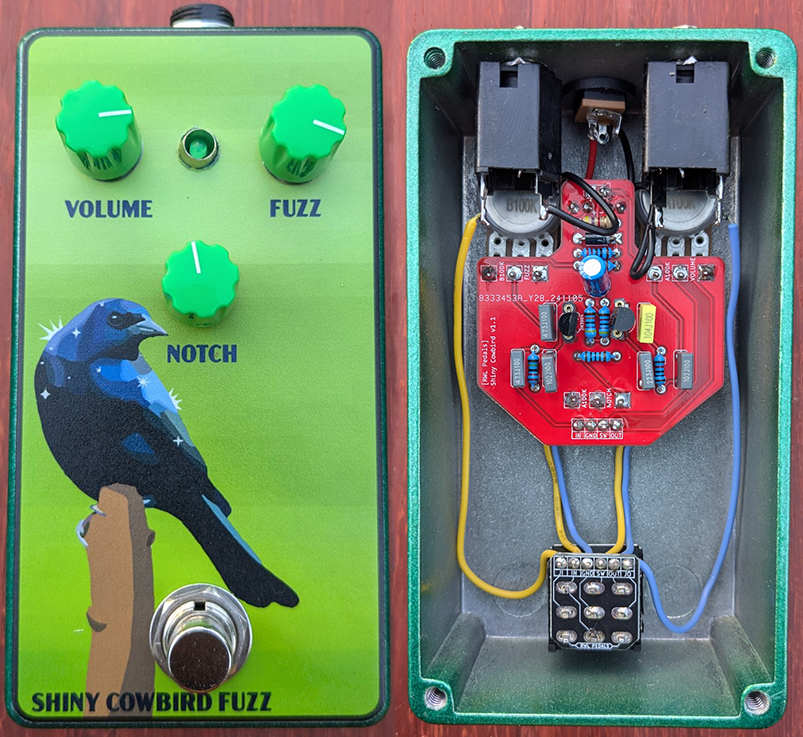
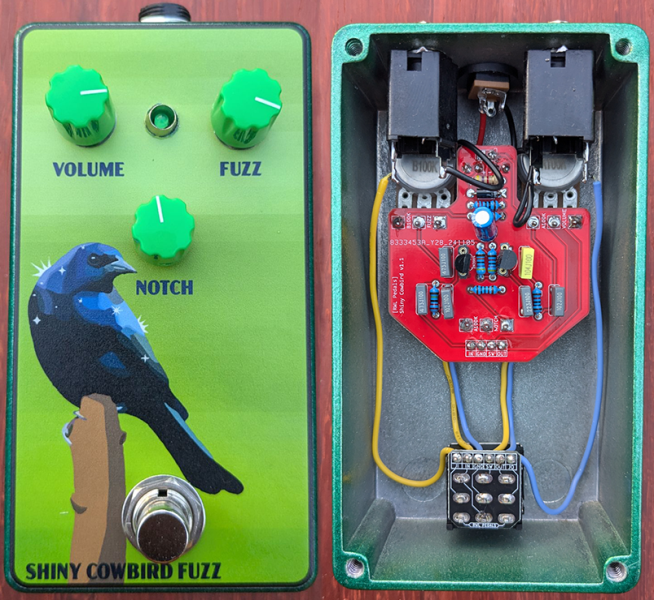
Adjust cover image sizes. Image styling in github Markdown is janky.

diff --git a/HoneycreeperOverdrive/README.md b/HoneycreeperOverdrive/README.md
@@ -1,6 +1,6 @@
 # Honeycreeper Overdrive
 
-<img src="https://github.com/RWLPedal/music-pcbs/blob/main/HoneycreeperOverdrive/images/honeycreeper_overdrive.png?raw=true" alt="Cover image with gutshot" height="500px">
+<img src="https://github.com/RWLPedal/music-pcbs/blob/main/HoneycreeperOverdrive/images/honeycreeper_overdrive.png?raw=true" alt="Cover image with gutshot">
 
 The *Honeycreeper Overdrive* is a PCB based on the Mad Professor Sweet Honey OD, one of many variations of the same pedal that also includes the Honey Bee. This pedal is based on a 2010 schematic trace credited to Yitzhak Turner-Schnell. It's a relatively transparent low-gain overdrive that was more popular in the late 2010s. The components are relatively cheap and easily sourced - the only hard-to-find part is the OP275 opamp.
 

diff --git a/ShinyCowbird/README.md b/ShinyCowbird/README.md
@@ -1,6 +1,6 @@
 # Shiny Cowbird (Dyl-ei Fuzz Apprentice)
 
-<img src="https://github.com/RWLPedal/music-pcbs/blob/main/ShinyCowbird/images/shiny_cowbird.png?raw=true" alt="Cover image with gutshot" height="500px">
+<img src="https://github.com/RWLPedal/music-pcbs/blob/main/ShinyCowbird/images/shiny_cowbird.png?raw=true" alt="Cover image with gutshot">
 
 The *Shiny Cowbird* is a PCB for [Dylan159's Dyl-ei Fuzz Apprentice](https://bentfishbowl.wixsite.com/electronics/post/dyl-ei-fuzz-apprentice-trev-ei-brazzmaster), which is in turn a modified *Shin-ei FY-2 Companion Fuzz*. This is a fuzz with a distinct harsh nasally tone - charming and quite unique. It only has a few components, and they're all easily obtained.
 

diff --git a/DipperCompressor/README.md b/DipperCompressor/README.md
@@ -1,6 +1,6 @@
 # Dipper Compressor ("That" Compressor)
 
-<img src="https://github.com/RWLPedal/music-pcbs/blob/main/DipperCompressor/images/dipper_compressor.png?raw=true" alt="Cover image with gutshot" height="500px">
+<img src="https://github.com/RWLPedal/music-pcbs/blob/main/DipperCompressor/images/dipper_compressor.png?raw=true" alt="Cover image with gutshot">
 
 The *Dipper Compressor* is a PCB for [Dylan159's "That" Compressor](https://bentfishbowl.wixsite.com/electronics/post/that-compressor), a unique compressor. As with most compressors, this one is relatively subtle, but features a limited number of easy-to-obtain components, and it has low ripple or other artifacts.
 

diff --git a/KingEiderFuzz/README.md b/KingEiderFuzz/README.md
@@ -1,6 +1,6 @@
 # King Eider Fuzz
 
-<img src="images/kingeider_fuzz.png?raw=true" alt="Cover image with gutshot" style="max-width: 100%;max-height:500px">
+<img src="images/kingeider_fuzz.png?raw=true" alt="Cover image with gutshot">
 
 The *King Eider Fuzz* is a PCB based on the Catalinbread Katzenkönig. It also has a clipping switch, as with the AionFX Poseidon. The Katzenkönig is a combination of a Tone Bender and a RAT, and it absolutely rips. The original Katzenkönig was published with a schematic licensed under Creative Commons, which this layout also uses as a license.
 

diff --git a/GrayHornbillFuzz/README.md b/GrayHornbillFuzz/README.md
@@ -1,6 +1,6 @@
 # Gray Hornbill Fuzz
 
-<img src="images/grayhornbill_fuzz.png?raw=true" alt="Cover image with gutshot" height="500px">
+<img src="images/grayhornbill_fuzz.png?raw=true" alt="Cover image with gutshot">
 
 The *Gray Hornbill Fuzz* is a PCB based on a Tim Escobedo circuit fragment, the Jawari. The circuit fragment does not include a power section, but all necessary components are included on this PCB.
 
